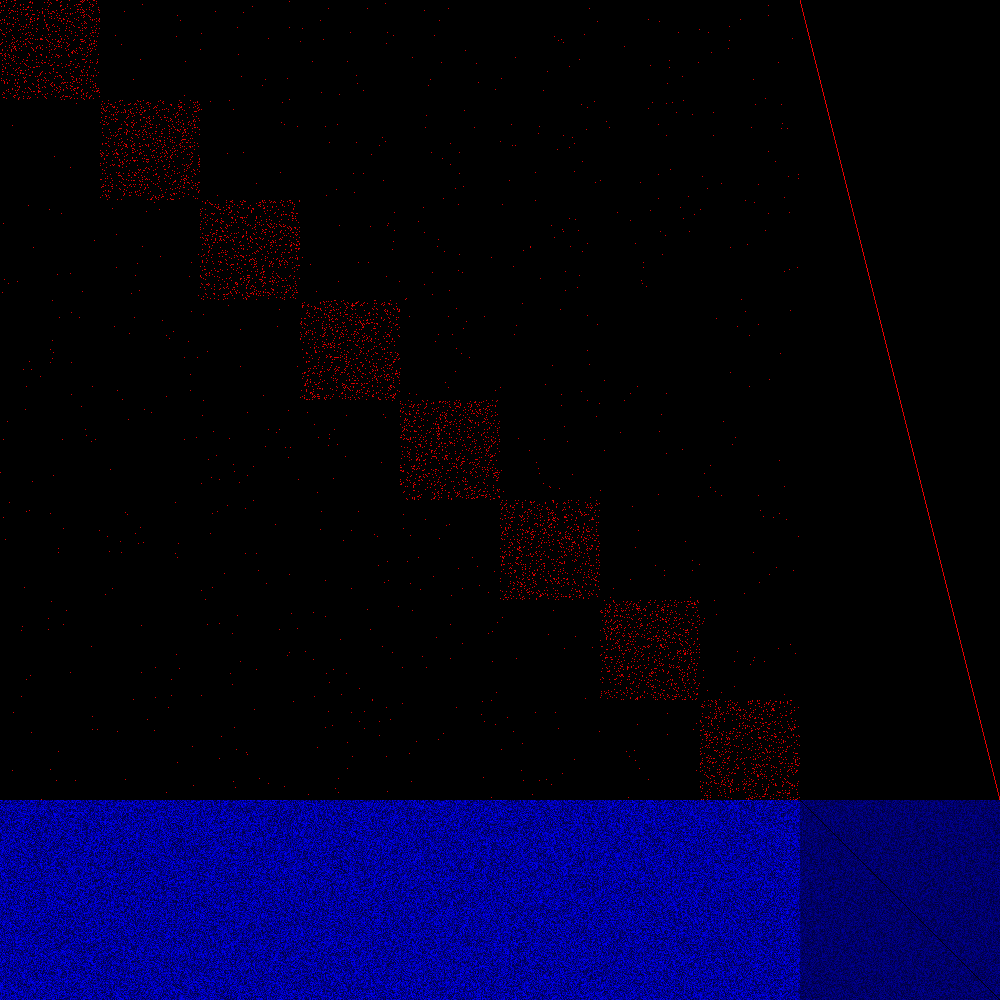
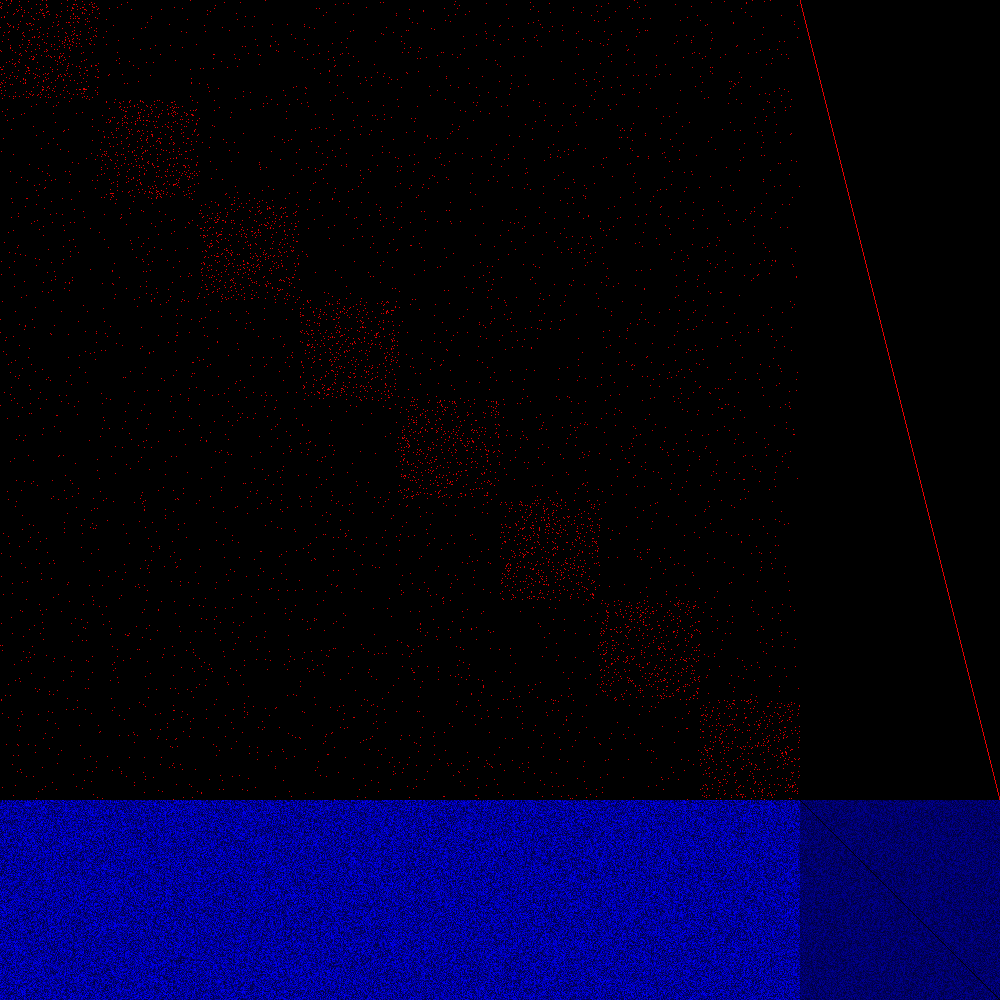
Run the simulation for different required p value

diff --git a/utils/swm_network.py b/utils/swm_network.py
@@ -162,5 +162,6 @@ class SWMNetwork:
         plt.savefig(f"static/fire-rate-p{self.p * 10}.png")             
 
 if __name__ == "__main__":
-    swm = SWMNetwork()
-    swm.simulate(1000)
+    for i in [0, 0.1, 0.2, 0.3, 0.4, 0.5]:
+        swm = SWMNetwork(p=i)
+        swm.simulate(1000)
